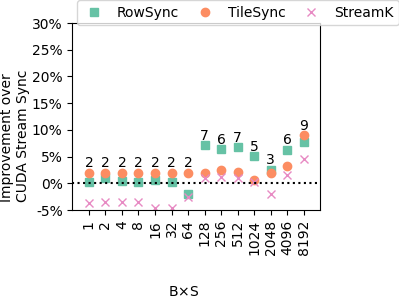
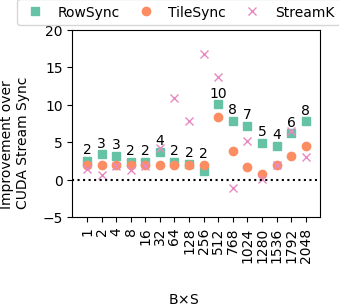
update results will streamk

diff --git a/src/ml-bench/transformer/eval_mlp.py b/src/ml-bench/transformer/eval_mlp.py
@@ -72,23 +72,26 @@ def getStreamKTimes(output):
   runtime = re.findall(r'\s*Avg runtime: ([\d\.]+)', output)
   return float(runtime[0])
 
-def genAndMakeStreamK(batchInfo):
+def genAndMakeStreamK(batchInfo, gemmidx):
   inFile = "streamk.cu"
   outFile = buildDir("streamk-eval.cu")
   tilesCode = """using ShapeMMAThreadBlock = cutlass::gemm::GemmShape<%d, %d, %d>;  
 using ShapeMMAWarp = cutlass::gemm::GemmShape<%d, %d, %d>;"""
   tileSize = batchInfo[syncPolicy]["TileSizes"] if "TileSizes" in batchInfo["baseline"] else  batchInfo["TileSizes"]
   if len(tileSize) > 1:
-    tilesCode = tilesCode % tuple(batchInfo["TileSizes"][0])
+    tilesCode = tilesCode % tuple(batchInfo["TileSizes"][gemmidx])
   else:
     tilesCode = tilesCode % tuple(batchInfo["TileSizes"])
 
   NumStages = batchInfo[syncPolicy]["NumStages"] if "NumStages" in batchInfo["baseline"] else  batchInfo["NumStages"]
   if isinstance(NumStages, list):
-    NumStages = NumStages[0]
+    NumStages = NumStages[gemmidx]
 
   numStagesCode = "const uint NumStages = %d;\n" % NumStages
   tilesCode += numStagesCode
+
+  if model == "gpt3" and attention_or_mlp == "mlp" and gemmidx == 0:
+    tilesCode += "#define MLP_GPT3_GEMM1"
 
   fileContents = slurp(inFile)
   tilesCodeStart = fileContents.find("//<eval tiles>") + len("//<eval tiles>")
@@ -222,7 +225,7 @@ if 'stridedsync' in policies and attention_or_mlp == 'mlp':
 deleteFiles(policies+['baseline'], attention_or_mlp)
 
 if attention_or_mlp == "mlp":
-  cases = [1,2,4,8,64,128,256,512,768,1024,1280,1536,1792,2048]
+  cases = [768,1024,1280,1536,1792,2048] #[1,2,4,8,16,32,64,128,256,512]
 else:
   #cases = [(0,256), (0,512), (0, 1024), (0, 2048), (1024,1), (1024,4), (2048,1), (2048,4)]
   cases = [(512,1),(512,2), (512,4), (1024,1), (1024,2), (1024,4), (2048,1), (2048,2), (2048,4)]
@@ -258,15 +261,15 @@ for case in cases:
     print(f'{m} & {H} & {"pytorch"} & {"%.2f"%float(ctime)}')
   
   if True:
-    genAndMakeStreamK(tiles[m])
+    genAndMakeStreamK(tiles[m], 0)
     streamk_command = buildDir("streamk-eval") + f" --m={m} --alpha=1 --beta=0 --iterations=20 "
-    (s, o) = subprocess.getstatusoutput(streamk_command + f"--n={int(FFN)} --k={H} " + f"--split={tiles[m]['baseline']['split_ks'][0]}")
+    (s, o) = subprocess.getstatusoutput(streamk_command + f"--n={int(2*FFN if model=='llama' else FFN)} --k={H} " + f"--split={tiles[m]['baseline']['split_ks'][0]}")
     if s != 0:
       print("StreamK Error")
       print(o)
 
     firstGeMMStreamK = getStreamKTimes(o)
-
+    genAndMakeStreamK(tiles[m], 1)
     (s, o) = subprocess.getstatusoutput(streamk_command + f"--n={H} --k={int(FFN)} " + f"--split={tiles[m]['baseline']['split_ks'][1]}")
     if s != 0:
       print("StreamK Error")
@@ -274,7 +277,7 @@ for case in cases:
 
     secondGeMMStreamK = getStreamKTimes(o)
     total = firstGeMMStreamK + secondGeMMStreamK
-    result_row = f'{m} & {seq} & {H} & {"streamk"} & {"%.2f"%(firstGeMMStreamK*1000)} & {"%.2f"%(secondGeMMStreamK*1000)} & {"%.2f"%(total*1000)}'
+    result_row = f'{m} & {seq} & {H} & {"streamk"} & {"%.2f"%(total*1000)} & {"%.2f"%(firstGeMMStreamK*1000)} & {"%.2f"%(secondGeMMStreamK*1000)}'
     print(result_row)
     results_csv += result_row + "\n"
 

diff --git a/src/ml-bench/plots/plotGPT.py b/src/ml-bench/plots/plotGPT.py
@@ -17,7 +17,7 @@ mInd = 0
 seqInd = 1
 hInd = 2
 syncTypeInd = 3
-streamkInd = 7 if model == 'llama' and attention_or_mlp == 'mlp' else 6
+streamkInd = 4
 torchInd = 4
 baselineInd = 4
 stdevBaselineInd = 5
@@ -115,7 +115,7 @@ if __name__ == "__main__":
     rowSpeedup = (baseline - rowOverlap)/baseline*100
     tileSpeedup = (baseline - tileOverlap)/baseline*100
     streamKSpeedup = (baseline - streamK)/baseline*100
-
+    print(streamKSpeedup)
     for i in range(len(rowSpeedup)):
         if rowSpeedup[i] < -2:
             rowSpeedup[i]= -2
@@ -156,9 +156,10 @@ if __name__ == "__main__":
     #     plt.yticks([0.6+0.1*i for i in range(0, 7)])
     # else:
     ax2.margins(0.02)
-    plt.ylim(-5, 30)
-    plt.yticks(ticks=[-5+5*i for i in range(0, 8)],
-               labels=["%d%%"%(-5+5*i) for i in range(0, 8)])
+    max_speedup = max([np.amax(rowSpeedup), np.amax(tileSpeedup), np.amax(streamKSpeedup)])
+    plt.ylim(-5, (((max_speedup+10-1)//10)*10))
+    # plt.yticks(ticks=[-5+5*i for i in range(0, 8)],
+    #            labels=["%d%%"%(-5+5*i) for i in range(0, 8)])
     # ax2.yaxis.set_major_formatter(mtick.PercentFormatter(decimals=None))
     # ax2.set_yticklabels(["%d%%"%(-5+5*i) for i in range(0, 9)])
     # plt.yticks(["%d%(-5+5*i) for i in range(0, 7)])
@@ -176,7 +177,7 @@ if __name__ == "__main__":
         ax2.get_xaxis().set_label_coords(0.45,-0.4)
         plt.legend((p1[0], p2[0], p4[0]), 
                    ('RowSync', 'TileSync', 'StreamK'),
-                   loc='upper left', bbox_to_anchor=(-0.01, 1.16),
+                   loc='upper left', bbox_to_anchor=(-0.25, 1.20),
                    ncol=4,columnspacing=1,handlelength=1.7)
     else:
         ax2.get_yaxis().set_visible(False)
